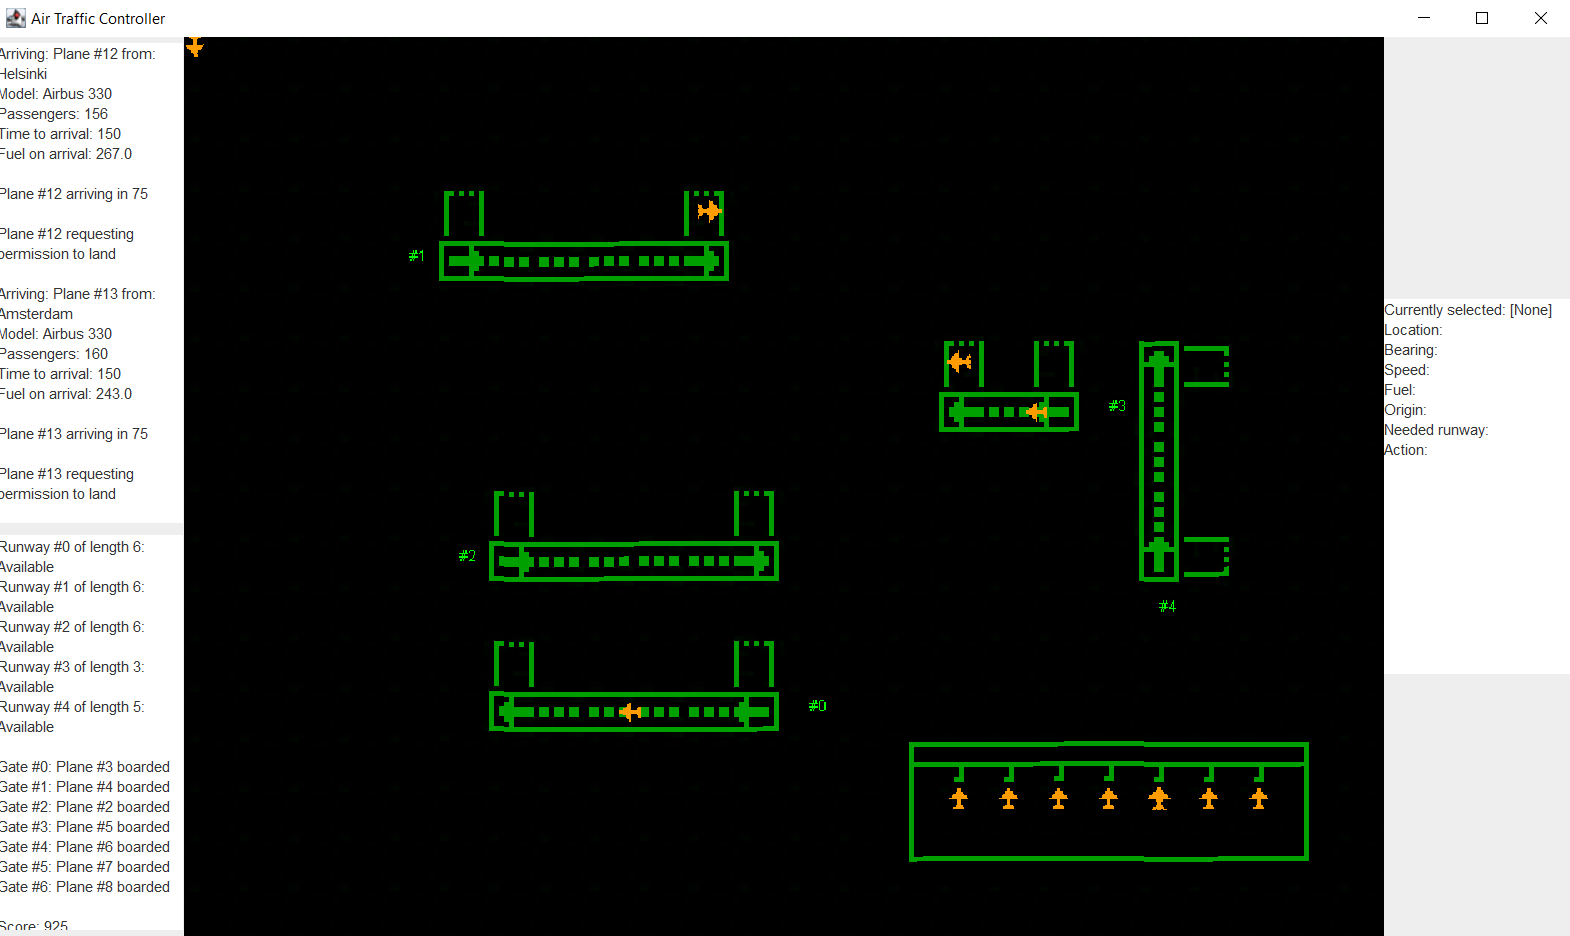
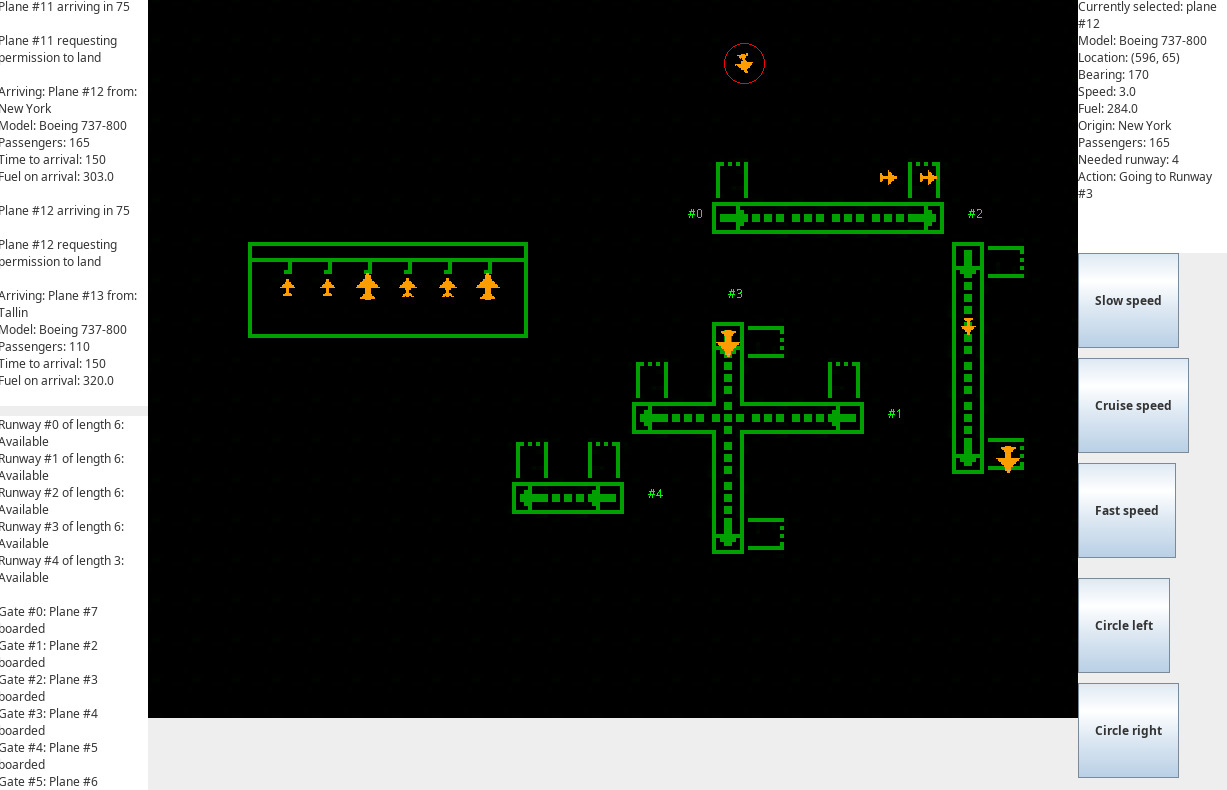
Change screenshot

diff --git a/README.md b/README.md
@@ -10,5 +10,5 @@ The game was made for a university course, in which the GUI was not a focus. As 
 </picture>
 <picture>
     <source srcset="https://github.com/apodl1/air-traffic-control-game/blob/main/Screenshot3.png">
-    <img alt="Screenshot" src="https://github.com/apodl1/air-traffic-control-game/blob/main/Screenshot1.png">
+    <img alt="Screenshot" src="https://github.com/apodl1/air-traffic-control-game/blob/main/Screenshot3.png">
 </picture>
